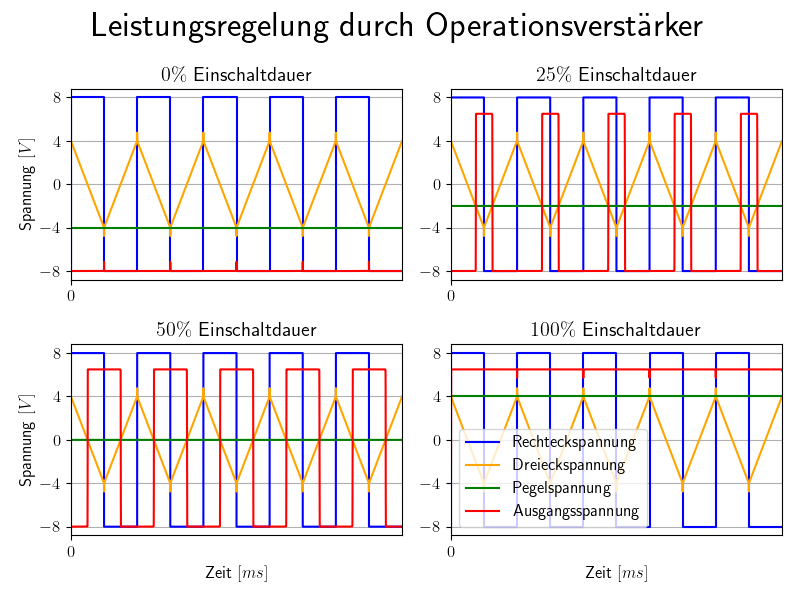
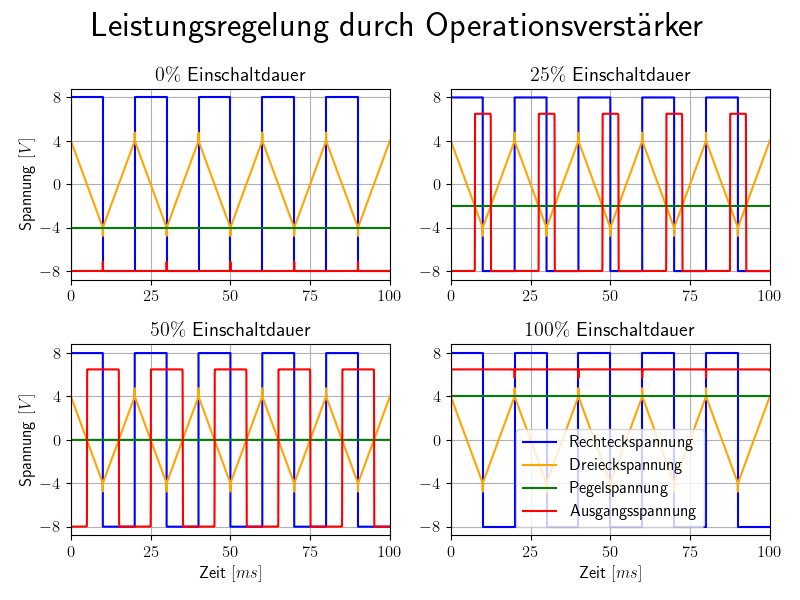
Final figures and simulations
Final commit of simulations and plotting. These Graphs only need to be inserted into the presentation.

diff --git a/schaltungen-lt/plotting.py b/schaltungen-lt/plotting.py
@@ -109,10 +109,10 @@ ax2122.plot([1000*i for i in raw21.get_axis(a21stp)], a21vrect.get_wave(a21stp),
 ax2122.plot([1000*i for i in raw21.get_axis(a21stp)], a21vtria.get_wave(a21stp), linewidth=lwidth, color='orange', label="Dreieckspannung")
 ax2122.plot([1000*i for i in raw21.get_axis(a21stp)], a21vtrig.get_wave(a21stp), linewidth=lwidth, color='green', label="Pegelspannung")
 ax2122.plot([1000*i for i in raw21.get_axis(a21stp)], a21vout.get_wave(a21stp), linewidth=lwidth, color='red', label="Ausgangsspannung")
-ax2111.set_xticks([0, 250, 500, 750, 1000])
-ax2112.set_xticks([0, 250, 500, 750, 1000])
-ax2121.set_xticks([0, 250, 500, 750, 1000])
-ax2122.set_xticks([0, 250, 500, 750, 1000])
+ax2111.set_xticks([0, 25, 50, 75, 100])
+ax2112.set_xticks([0, 25, 50, 75, 100])
+ax2121.set_xticks([0, 25, 50, 75, 100])
+ax2122.set_xticks([0, 25, 50, 75, 100])
 ax2111.set_yticks([-8, -4, 0, 4, 8])
 ax2112.set_yticks([-8, -4, 0, 4, 8])
 ax2121.set_yticks([-8, -4, 0, 4, 8])
